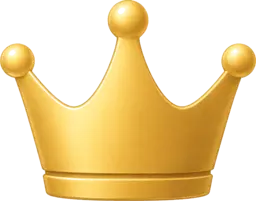
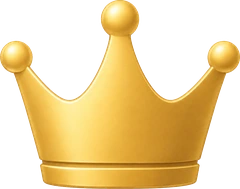
提高菜单VIP卡片头设计还原度
按新设计稿 user_card2 重做黑色 VIP 卡片头：
- 皇冠/黑头底纹改用设计切图(background.png/crown.png)处理透明后的资产，替换原低清版
- 布局改两行(移动端窄屏适配)：上行皇冠+VIP等级+Enter VIP Center金色胶囊按钮，
  下行完整展示「还需 X VIP 积分升级到 VIP N」并高亮真实积分数(原版单行截断、无数字)
- 拉取完整 VipProgress 计算距下一级所需积分(nextThreshold-totalTurnover)
- i18n vipHeaderHint 改为带 <g> 金色标记的完整句 vipHeaderEarn + 满级 vipHeaderMax(四语)
- 头像角标 VIP→LV 对齐设计

diff --git a/apps/web-tma/src/views/MenuPage.tsx b/apps/web-tma/src/views/MenuPage.tsx
@@ -1,5 +1,5 @@
 import { useState, useEffect, useRef, type ComponentType, type ReactNode } from 'react'
-import { useTranslation } from 'react-i18next'
+import { Trans, useTranslation } from 'react-i18next'
 import {
   ArrowDownToLine,
   ArrowUpFromLine,
@@ -22,7 +22,7 @@ import { useAuthStore } from '@/stores/auth'
 import { useLocaleStore } from '@/stores/locale'
 import { useThemeStore, type ThemeMode } from '@/stores/theme'
 import { LANGUAGES } from '@/data/languages'
-import { fetchVipProgress } from '@/api/vip'
+import { fetchVipProgress, type VipProgress } from '@/api/vip'
 import { fetchKycStatus, type KycStatus } from '@/api/kyc'
 import { isInsideTelegram } from '@/utils/initTelegramWebApp'
 import menuCasino from '@/assets/home/promos/menu-card-casino.webp'
@@ -225,7 +225,7 @@ export default function MenuPage({ onOpenCs, onLogin, onLogout, onOpenBetHistory
   const [comingSoonToast, setComingSoonToast] = useState(false)
   const [docModalKey, setDocModalKey] = useState<string | null>(null)
   const [langOpen, setLangOpen] = useState(false)
-  const [vipLevel, setVipLevel] = useState<number | null>(null)
+  const [vip, setVip] = useState<VipProgress | null>(null)
   const [kycStatus, setKycStatus] = useState<KycStatus | null>(null)
   const comingSoonTimer = useRef<ReturnType<typeof setTimeout> | null>(null)
 
@@ -237,8 +237,9 @@ export default function MenuPage({ onOpenCs, onLogin, onLogout, onOpenBetHistory
   const phoneVerified = kycApproved || Boolean(kycStatus?.phoneVerified)
   const docVerified = kycApproved || Boolean(kycStatus?.docVerified)
   const faceVerified = kycApproved || Boolean(kycStatus?.faceVerified)
-  const currentVipLevel = vipLevel ?? 1
-  const nextVipLevel = currentVipLevel + 1
+  const currentVipLevel = vip?.level ?? 1
+  const nextVipLevel = vip?.nextLevel ?? null
+  const vipPointsToNext = vip && vip.nextThreshold != null ? Math.max(0, vip.nextThreshold - vip.totalTurnover) : null
 
   const SUPPORT_ITEMS = [
     { icon: '21_live_chat', label: t('profile.supportItems.liveChat'), sub: t('profile.supportItems.liveChatSub'), badge: t('common.online'), onClick: onOpenCs },
@@ -269,12 +270,12 @@ export default function MenuPage({ onOpenCs, onLogin, onLogout, onOpenBetHistory
 
   useEffect(() => {
     if (!isLoggedIn) {
-      setVipLevel(null)
+      setVip(null)
       return
     }
     fetchVipProgress()
-      .then((progress) => setVipLevel(progress.level))
-      .catch(() => setVipLevel(null))
+      .then(setVip)
+      .catch(() => setVip(null))
   }, [isLoggedIn, auth.user?.id])
 
   useEffect(() => {
@@ -346,21 +347,36 @@ export default function MenuPage({ onOpenCs, onLogin, onLogout, onOpenBetHistory
         <div
           className="relative overflow-hidden rounded-[28px] border border-[#d7a83d] bg-[#070c15] shadow-[0_18px_40px_rgba(0,0,0,0.32)]"
         >
-          <button type="button" className="relative flex h-[50px] w-full items-center gap-2 overflow-hidden px-4 text-left" onClick={onOpenVipCenter}>
-            <img src={vipHeaderBg} alt="" aria-hidden="true" className="pointer-events-none absolute inset-0 h-full w-full object-fill" />
-            <span className="relative flex min-w-0 flex-1 items-center gap-2.5">
-              <img src={vipCrown} alt="" aria-hidden="true" className="h-7 w-9 flex-shrink-0 object-contain" />
-              <span className="whitespace-nowrap font-display text-2xl font-black leading-none text-[#ffe59b] drop-shadow-[0_1px_2px_rgba(0,0,0,0.35)]">VIP {currentVipLevel}</span>
-              <span className="h-7 w-px flex-shrink-0 bg-[#e9c970]/55" />
-              <span className="min-w-0 truncate text-xs font-medium text-[#e7e4dc]">
-                {t('menu.vipHeaderHint')} <span className="font-black text-[#ffe48a]">VIP {nextVipLevel}</span>
-              </span>
-            </span>
-            <span className="relative flex h-[34px] flex-shrink-0 items-center gap-1 whitespace-nowrap rounded-[14px] border border-[#ffe7a6]/80 bg-gradient-to-b from-[#ffe7a6] to-[#e5b23f] px-3 text-xs font-black text-[#15110a] shadow-[inset_0_1px_0_rgba(255,255,255,0.7)]">
-              {t('menu.enterVipCenter')}
-              <ChevronRight size={14} strokeWidth={3} />
-            </span>
-          </button>
+          {isLoggedIn && (
+            <div className="relative overflow-hidden px-4 py-2.5">
+              <img src={vipHeaderBg} alt="" aria-hidden="true" className="pointer-events-none absolute inset-0 h-full w-full object-cover" />
+              <div className="relative flex items-center justify-between gap-2">
+                <span className="flex min-w-0 items-center gap-2">
+                  <img src={vipCrown} alt="" aria-hidden="true" className="h-8 w-auto flex-shrink-0 object-contain drop-shadow-[0_2px_4px_rgba(0,0,0,0.45)]" />
+                  <span className="whitespace-nowrap font-display text-2xl font-black leading-none text-[#f6dea5] drop-shadow-[0_1px_2px_rgba(0,0,0,0.45)]">VIP {currentVipLevel}</span>
+                </span>
+                <button
+                  type="button"
+                  className="flex flex-shrink-0 items-center gap-0.5 whitespace-nowrap rounded-full bg-gradient-to-r from-[#f8ebbb] to-[#e4b750] px-3 py-1.5 text-[11px] font-black text-[#1b1c19] shadow-[inset_0_1px_0_rgba(255,255,255,0.65)] transition-transform active:scale-[0.97]"
+                  onClick={onOpenVipCenter}
+                >
+                  {t('menu.enterVipCenter')}
+                  <ChevronRight size={13} strokeWidth={3} />
+                </button>
+              </div>
+              {nextVipLevel != null && vipPointsToNext != null ? (
+                <p className="relative mt-1.5 text-[11px] font-medium leading-snug text-[#cfcfd4]">
+                  <Trans
+                    i18nKey="menu.vipHeaderEarn"
+                    values={{ points: vipPointsToNext.toLocaleString('en-US'), next: nextVipLevel }}
+                    components={{ g: <span className="font-black text-[#f0c24a]" /> }}
+                  />
+                </p>
+              ) : (
+                <p className="relative mt-1.5 text-[11px] font-medium leading-snug text-[#cfcfd4]">{t('menu.vipHeaderMax')}</p>
+              )}
+            </div>
+          )}
 
           <div className="relative rounded-t-[28px] border-t border-[#e9bc48]/70 px-4 pb-3 pt-4" style={{ background: 'linear-gradient(135deg, #e2af37 0%, #c79023 52%, #946615 100%)' }}>
             <img
@@ -386,7 +402,7 @@ export default function MenuPage({ onOpenCs, onLogin, onLogout, onOpenBetHistory
                         <User size={25} />
                       )}
                     </div>
-                    <span className="absolute -right-1 -top-1 rounded-full bg-zinc-900 px-1.5 py-0.5 text-[8px] font-black uppercase tracking-wide text-amber-300 shadow">VIP{currentVipLevel}</span>
+                    <span className="absolute -right-1 -top-1 rounded-full bg-zinc-900 px-1.5 py-0.5 text-[8px] font-black uppercase tracking-wide text-amber-300 shadow">LV{currentVipLevel}</span>
                   </div>
                   <div className="min-w-0 flex-1 pt-0.5">
                     <p className="mb-1 text-[10px] font-black uppercase tracking-wide text-black/45">{t('profile.playerAccount')}</p>

diff --git a/apps/web-tma/src/i18n/locales/vi.ts b/apps/web-tma/src/i18n/locales/vi.ts
@@ -398,7 +398,8 @@ export default {
     walletTopUp: 'Nạp tiền',
     walletCashOut: 'Rút tiền',
     walletRecords: 'Lịch sử',
-    vipHeaderHint: 'Tích điểm VIP để nâng lên',
+    vipHeaderEarn: 'Kiếm thêm <g>{{points}}</g> điểm VIP để lên <g>VIP {{next}}</g>',
+    vipHeaderMax: 'Bạn đã đạt cấp VIP cao nhất',
     enterVipCenter: 'Vào VIP Center',
     sections: {
       theme: 'Chủ đề game',

diff --git a/apps/web-tma/src/i18n/locales/id.ts b/apps/web-tma/src/i18n/locales/id.ts
@@ -398,7 +398,8 @@ export default {
     walletTopUp: 'Isi Ulang',
     walletCashOut: 'Tarik Dana',
     walletRecords: 'Riwayat',
-    vipHeaderHint: 'Kumpulkan poin VIP untuk naik ke',
+    vipHeaderEarn: 'Dapatkan <g>{{points}}</g> poin VIP lagi untuk naik ke <g>VIP {{next}}</g>',
+    vipHeaderMax: 'Anda telah mencapai level VIP tertinggi',
     enterVipCenter: 'Masuk VIP Center',
     sections: {
       theme: 'Tema Game',

diff --git a/apps/web-tma/src/i18n/locales/en.ts b/apps/web-tma/src/i18n/locales/en.ts
@@ -680,7 +680,8 @@ export default {
     walletTopUp: 'Top Up',
     walletCashOut: 'Cash Out',
     walletRecords: 'History',
-    vipHeaderHint: 'Earn more VIP points to upgrade to',
+    vipHeaderEarn: 'Earn <g>{{points}}</g> more VIP points to upgrade to <g>VIP {{next}}</g>',
+    vipHeaderMax: "You've reached the highest VIP level",
     enterVipCenter: 'Enter VIP Center',
     sections: {
       theme: 'Game Theme',

diff --git a/apps/web-tma/src/i18n/locales/zh-CN.ts b/apps/web-tma/src/i18n/locales/zh-CN.ts
@@ -670,7 +670,8 @@ export default {
     walletTopUp: '充值',
     walletCashOut: '提现',
     walletRecords: '记录',
-    vipHeaderHint: '累积 VIP 积分升级到',
+    vipHeaderEarn: '还需 <g>{{points}}</g> VIP 积分升级到 <g>VIP {{next}}</g>',
+    vipHeaderMax: '已达最高 VIP 等级',
     enterVipCenter: '进入 VIP 中心',
     sections: {
       theme: '游戏主题',
